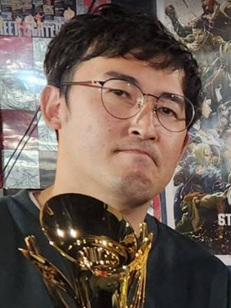
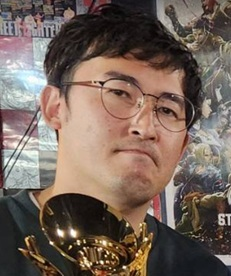
変更

diff --git a/rollinpic2026.html b/rollinpic2026.html
@@ -686,24 +686,37 @@
       color: var(--accent-yellow);
     }
 
-    /* ─── QUALIFIER STAGE SELECT SECTION ─── */
+    /* ─── QUALIFIER STAGE SELECT SECTION (アコーディオン対応) ─── */
     .qualifier-section {
       margin-bottom: 50px;
       background: linear-gradient(180deg, rgba(18, 18, 26, 0.95) 0%, rgba(8, 8, 12, 0.98) 100%);
       border: 1px solid rgba(255, 204, 0, 0.4);
       border-top: 4px solid var(--accent-yellow);
-      padding: 22px 20px;
       box-shadow: 0 0 25px rgba(255, 204, 0, 0.12), 8px 8px 0px #000;
       position: relative;
+    }
+
+    .qualifier-acc-btn {
+      width: 100%;
+      background: none;
+      border: none;
+      padding: 22px 20px;
+      display: flex;
+      justify-content: space-between;
+      align-items: center;
+      cursor: pointer;
+      text-align: left;
+    }
+
+    .qualifier-acc-btn:hover {
+      background: rgba(255, 204, 0, 0.04);
     }
 
     .qualifier-header {
       display: flex;
       justify-content: space-between;
       align-items: flex-end;
-      border-bottom: 2px solid rgba(255, 204, 0, 0.25);
-      padding-bottom: 10px;
-      margin-bottom: 16px;
+      width: 100%;
     }
 
     .qualifier-title-wrap {
@@ -733,6 +746,12 @@
       text-shadow: 0 0 10px rgba(255, 204, 0, 0.5);
     }
 
+    .qualifier-sub-wrap {
+      display: flex;
+      align-items: center;
+      gap: 15px;
+    }
+
     .qualifier-sub {
       font-family: 'Teko', sans-serif;
       font-size: 1.1rem;
@@ -742,7 +761,22 @@
       opacity: 0.8;
     }
 
+    .qualifier-acc-icon {
+      font-family: 'Teko', sans-serif;
+      font-size: 1.5rem;
+      color: var(--accent-yellow);
+      font-weight: bold;
+      transition: transform 0.3s ease;
+    }
+
+    .qualifier-acc-body {
+      display: none;
+      padding: 0 20px 22px 20px;
+      border-top: 2px solid rgba(255, 204, 0, 0.25);
+    }
+
     .qualifier-table-wrapper {
+      margin-top: 16px;
       border: 1px solid rgba(255, 255, 255, 0.1);
       background: rgba(0, 0, 0, 0.6);
     }
@@ -1396,113 +1430,120 @@
 
     </div>
 
-    <!-- DAY1個人戦シード予選日程(9枠) -->
+    <!-- DAY1個人戦シード予選日程(9枠) - 折り畳み式アコーディオン -->
     <div class="qualifier-section">
-      <div class="qualifier-header">
-        <div class="qualifier-title-wrap">
-          <span class="qualifier-badge">ROAD TO DAY 1</span>
-          <h3 class="qualifier-title">個人戦 シード予選日程 (全9枠 - 全日程終了) <span style="font-size:0.85rem; color:var(--text-muted); font-weight:normal; margin-left:2px;">11月1日現在</span></h3>
+      <button class="qualifier-acc-btn" onclick="toggleQualifierAcc(this)">
+        <div class="qualifier-header">
+          <div class="qualifier-title-wrap">
+            <span class="qualifier-badge">ROAD TO DAY 1</span>
+            <h3 class="qualifier-title">個人戦 シード予選日程 (全9枠 - 全日程終了) <span style="font-size:0.85rem; color:var(--text-muted); font-weight:normal; margin-left:2px;">11月1日現在</span></h3>
+          </div>
+          <div class="qualifier-sub-wrap">
+            <span class="qualifier-sub">QUALIFIERS STAGE SELECT</span>
+            <span class="qualifier-acc-icon" id="qualifier-icon">▼</span>
+          </div>
         </div>
-        <div class="qualifier-sub">QUALIFIERS STAGE SELECT</div>
-      </div>
+      </button>
 
-      <div class="qualifier-table-wrapper">
-        <table class="qualifier-table">
-          <thead>
-            <tr>
-              <th>#</th>
-              <th>日時</th>
-              <th>都道府県</th>
-              <th>予選実施店舗</th>
-              <th>選抜形式</th>
-              <th>通過選手（主なキャラクター）</th>
-              <th>関連動画</th>
-            </tr>
-          </thead>
-          <tbody>
-            <tr class="seeded-row">
-              <td class="num-col">01</td>
-              <td>終了</td>
-              <td>全国</td>
-              <td>-</td>
-              <td>昨年シングル優勝者</td>
-              <td><div><span class="pass-tag">SEED</span><strong>ライ</strong>(K舞 響 サガット)</div></td>
-              <td><a href="https://youtu.be/togWvV1lRd8?si=Yv-PShWTJwc1em_W" target="_blank" class="video-link">▶ 動画視聴</a></td>
-            </tr>
-            <tr class="seeded-row">
-              <td class="num-col">02</td>
-              <td>終了</td>
-              <td>愛知</td>
-              <td>名古屋GAME BOX Q3</td>
-              <td>ランバト総合一位</td>
-              <td><div><span class="pass-tag">SEED</span><strong>kiku</strong>(Cキャミィ 春麗 サガット)</div></td>
-              <td><a href="https://www.youtube.com/live/ZIjMwMNBgJQ?si=rIqqbWs9DlapFA-H&t=2531" target="_blank" class="video-link">▶ 動画視聴</a></td>
-            </tr>
-            <tr class="seeded-row">
-              <td class="num-col">03</td>
-              <td>終了</td>
-              <td>大阪</td>
-              <td>アミューズファクトリーAXE</td>
-              <td>ランバト総合一位</td>
-              <td><div><span class="pass-tag">SEED</span><strong>GAN</strong>(A庵 ブランカ ベガ)</div></td>
-              <td><a href="https://www.youtube.com/live/sI2SlWJ9E2A?si=JKhma9WL59JbEA50" target="_blank" class="video-link">▶ 動画視聴</a></td>
-            </tr>
-            <tr class="seeded-row">
-              <td class="num-col">04</td>
-              <td>終了</td>
-              <td>東京</td>
-              <td>西日暮里バーサス・南浦和ビックワンセカンド</td>
-              <td>ランバト総合一位</td>
-              <td><div><span class="pass-tag">SEED</span><strong>Laugh</strong>(Aバルログ 桜 ブランカ)</div></td>
-              <td><a href="https://www.youtube.com/live/qsY847yWamY?si=k9wMTlcO8VXlbAag&t=4214" target="_blank" class="video-link">▶ 動画視聴</a></td>
-            </tr>
-            <tr class="seeded-row">
-              <td class="num-col">05</td>
-              <td>終了</td>
-              <td>東京</td>
-              <td>西日暮里バーサス・南浦和ビックワンセカンド</td>
-              <td>ランバトプレーオフ</td>
-              <td><div><span class="pass-tag">SEED</span><strong>GAO</strong>(Cリュウ ガイル 庵)</div></td>
-              <td><a href="https://www.youtube.com/live/qsY847yWamY?si=dC92FCvstSJh90EX&t=13006" target="_blank" class="video-link">▶ 動画視聴</a></td>
-            </tr>
-            <tr class="seeded-row">
-              <td class="num-col">06</td>
-              <td>終了（9/18）</td>
-              <td>北海道</td>
-              <td>GIGO札幌駅西口</td>
-              <td>シード争奪戦トーナメント</td>
-              <td><div><span class="pass-tag">SEED</span><strong>ワタリ</strong>(A庵 ブランカ ベガ)</div></td>
-              <td><a href="https://www.youtube.com/live/5pwLEjyuZ9E?si=A60QVb0OZ2d_dct9&t=18769" target="_blank" class="video-link">▶ 動画視聴</a></td>
-            </tr>
-            <tr class="seeded-row">
-              <td class="num-col">07</td>
-              <td>終了（9/21）</td>
-              <td>東京</td>
-              <td>南浦和ビックワンセカンド</td>
-              <td>シード争奪戦トーナメント</td>
-              <td><div><span class="pass-tag">SEED</span><strong>Sophitia</strong>(A恭介 アテナ モリガン)</div></td>
-              <td><a href="https://youtu.be/nyLB72lKoBo?si=1xYWoWg1P47tWdO5" target="_blank" class="video-link">▶ 動画視聴</a></td>
-            </tr>
-            <tr class="seeded-row">
-              <td class="num-col">08</td>
-              <td>終了（10/3）</td>
-              <td>愛知</td>
-              <td>名古屋GAME BOX Q3</td>
-              <td>シード争奪戦トーナメント</td>
-              <td><div><span class="pass-tag">SEED</span><strong>izumi</strong>(Pマキ ブランカ サガット)</div></td>
-              <td><a href="https://www.youtube.com/live/tuP9DIxPOq0?si=2b8WoD69rJ8pnvfD&t=4866" target="_blank" class="video-link">▶ 動画視聴</a></td>
-            </tr>
-            <tr class="seeded-row">
-              <td class="num-col">09</td>
-              <td>終了（10/17）</td>
-              <td>大阪</td>
-              <td>アミューズファクトリーAXE</td>
-              <td>シード争奪戦トーナメント</td>
-              <td><div><span class="pass-tag">SEED</span><strong>坊っちゃん</strong>(Kサガット ブランカ キャミィ)</div></td>
-              <td><a href="https://www.youtube.com/live/97FqfY0ftsY?si=Nw7S50e0vrMgGvv5" target="_blank" class="video-link">▶ 動画視聴</a></td>
-            </tr>
-          </tbody>
-        </table>
+      <div class="qualifier-acc-body" id="qualifier-body">
+        <div class="qualifier-table-wrapper">
+          <table class="qualifier-table">
+            <thead>
+              <tr>
+                <th>#</th>
+                <th>日時</th>
+                <th>都道府県</th>
+                <th>予選実施店舗</th>
+                <th>選抜形式</th>
+                <th>通過選手（主なキャラクター）</th>
+                <th>関連動画</th>
+              </tr>
+            </thead>
+            <tbody>
+              <tr class="seeded-row">
+                <td class="num-col">01</td>
+                <td>終了</td>
+                <td>全国</td>
+                <td>-</td>
+                <td>昨年シングル優勝者</td>
+                <td><div><span class="pass-tag">SEED</span><strong>ライ</strong>(K舞 響 サガット)</div></td>
+                <td><a href="https://youtu.be/togWvV1lRd8?si=Yv-PShWTJwc1em_W" target="_blank" class="video-link">▶ 動画視聴</a></td>
+              </tr>
+              <tr class="seeded-row">
+                <td class="num-col">02</td>
+                <td>終了</td>
+                <td>愛知</td>
+                <td>名古屋GAME BOX Q3</td>
+                <td>ランバト総合一位</td>
+                <td><div><span class="pass-tag">SEED</span><strong>kiku</strong>(Cキャミィ 春麗 サガット)</div></td>
+                <td><a href="https://www.youtube.com/live/ZIjMwMNBgJQ?si=rIqqbWs9DlapFA-H&t=2531" target="_blank" class="video-link">▶ 動画視聴</a></td>
+              </tr>
+              <tr class="seeded-row">
+                <td class="num-col">03</td>
+                <td>終了</td>
+                <td>大阪</td>
+                <td>アミューズファクトリーAXE</td>
+                <td>ランバト総合一位</td>
+                <td><div><span class="pass-tag">SEED</span><strong>GAN</strong>(A庵 ブランカ ベガ)</div></td>
+                <td><a href="https://www.youtube.com/live/sI2SlWJ9E2A?si=JKhma9WL59JbEA50" target="_blank" class="video-link">▶ 動画視聴</a></td>
+              </tr>
+              <tr class="seeded-row">
+                <td class="num-col">04</td>
+                <td>終了</td>
+                <td>東京</td>
+                <td>西日暮里バーサス・南浦和ビックワンセカンド</td>
+                <td>ランバト総合一位</td>
+                <td><div><span class="pass-tag">SEED</span><strong>Laugh</strong>(Aバルログ 桜 ブランカ)</div></td>
+                <td><a href="https://www.youtube.com/live/qsY847yWamY?si=k9wMTlcO8VXlbAag&t=4214" target="_blank" class="video-link">▶ 動画視聴</a></td>
+              </tr>
+              <tr class="seeded-row">
+                <td class="num-col">05</td>
+                <td>終了</td>
+                <td>東京</td>
+                <td>西日暮里バーサス・南浦和ビックワンセカンド</td>
+                <td>ランバトプレーオフ</td>
+                <td><div><span class="pass-tag">SEED</span><strong>GAO</strong>(Cリュウ ガイル 庵)</div></td>
+                <td><a href="https://www.youtube.com/live/qsY847yWamY?si=dC92FCvstSJh90EX&t=13006" target="_blank" class="video-link">▶ 動画視聴</a></td>
+              </tr>
+              <tr class="seeded-row">
+                <td class="num-col">06</td>
+                <td>終了（9/18）</td>
+                <td>北海道</td>
+                <td>GIGO札幌駅西口</td>
+                <td>シード争奪戦トーナメント</td>
+                <td><div><span class="pass-tag">SEED</span><strong>ワタリ</strong>(A庵 ブランカ ベガ)</div></td>
+                <td><a href="https://www.youtube.com/live/5pwLEjyuZ9E?si=A60QVb0OZ2d_dct9&t=18769" target="_blank" class="video-link">▶ 動画視聴</a></td>
+              </tr>
+              <tr class="seeded-row">
+                <td class="num-col">07</td>
+                <td>終了（9/21）</td>
+                <td>東京</td>
+                <td>南浦和ビックワンセカンド</td>
+                <td>シード争奪戦トーナメント</td>
+                <td><div><span class="pass-tag">SEED</span><strong>シャイニィー ソフィーティア</strong>(A恭介 アテナ モリガン)</div></td>
+                <td><a href="https://youtu.be/nyLB72lKoBo?si=1xYWoWg1P47tWdO5" target="_blank" class="video-link">▶ 動画視聴</a></td>
+              </tr>
+              <tr class="seeded-row">
+                <td class="num-col">08</td>
+                <td>終了（10/3）</td>
+                <td>愛知</td>
+                <td>名古屋GAME BOX Q3</td>
+                <td>シード争奪戦トーナメント</td>
+                <td><div><span class="pass-tag">SEED</span><strong>izumi</strong>(Pマキ ブランカ サガット)</div></td>
+                <td><a href="https://www.youtube.com/live/tuP9DIxPOq0?si=2b8WoD69rJ8pnvfD&t=4866" target="_blank" class="video-link">▶ 動画視聴</a></td>
+              </tr>
+              <tr class="seeded-row">
+                <td class="num-col">09</td>
+                <td>終了（10/17）</td>
+                <td>大阪</td>
+                <td>アミューズファクトリーAXE</td>
+                <td>シード争奪戦トーナメント</td>
+                <td><div><span class="pass-tag">SEED</span><strong>坊っちゃん</strong>(Kサガット ブランカ キャミィ)</div></td>
+                <td><a href="https://www.youtube.com/live/97FqfY0ftsY?si=Nw7S50e0vrMgGvv5" target="_blank" class="video-link">▶ 動画視聴</a></td>
+              </tr>
+            </tbody>
+          </table>
+        </div>
       </div>
     </div>
 
@@ -1669,6 +1710,16 @@
       
       document.querySelectorAll('.acc-body').forEach(b => b.style.display = 'none');
       body.style.display = isOpen ? 'none' : 'block';
+    }
+
+    // シード予選セクション用の折り畳みトグル
+    function toggleQualifierAcc(btn) {
+      const body = document.getElementById('qualifier-body');
+      const icon = document.getElementById('qualifier-icon');
+      const isOpen = body.style.display === 'block';
+      
+      body.style.display = isOpen ? 'none' : 'block';
+      icon.style.transform = isOpen ? 'rotate(0deg)' : 'rotate(180deg)';
     }
 
     // カウントダウン処理

diff --git a/introduce.html b/introduce.html
@@ -548,7 +548,6 @@
       }
     }
 
-    /* ▼ 長い名前（シャイニィー ソフィーティア等）用の文字サイズ調整クラス ▼ */
     .player-title-name.long-name {
       font-size: 18px;
     }
@@ -1264,7 +1263,7 @@
           </div>
         </div>
 
-        <!-- 8. 坊っちゃん -->
+        <!-- 8. 坊ちゃん -->
         <div class="player-profile-card tier-2 groove-k">
           <div class="card-bg-characters">
             <img src="Kサガット.png" alt="">
@@ -1276,12 +1275,12 @@
           
           <div class="player-card-header">
             <div class="player-photo-frame">
-              <img src="placeholder_player8.jpg" alt="坊っちゃん">
+              <img src="placeholder_player8.jpg" alt="坊ちゃん">
               <div class="photo-overlay-tag">TIER 2</div>
             </div>
             <div class="player-title-area">
               <span class="seed-badge-title">大阪シード争奪戦トーナメント</span>
-              <h3 class="player-title-name">坊っちゃん</h3>
+              <h3 class="player-title-name">坊ちゃん</h3>
               <div class="char-text-name"><span class="g-k">K</span>サガット ブランカ キャミィ</div>
             </div>
           </div>
